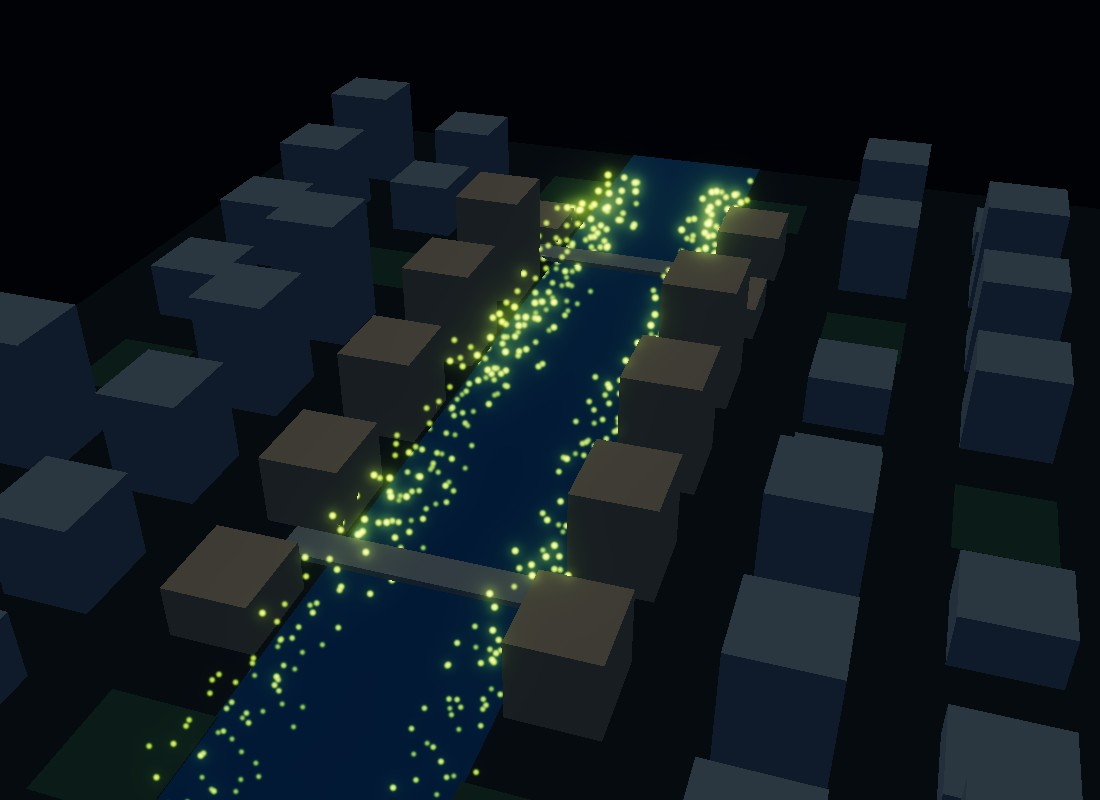
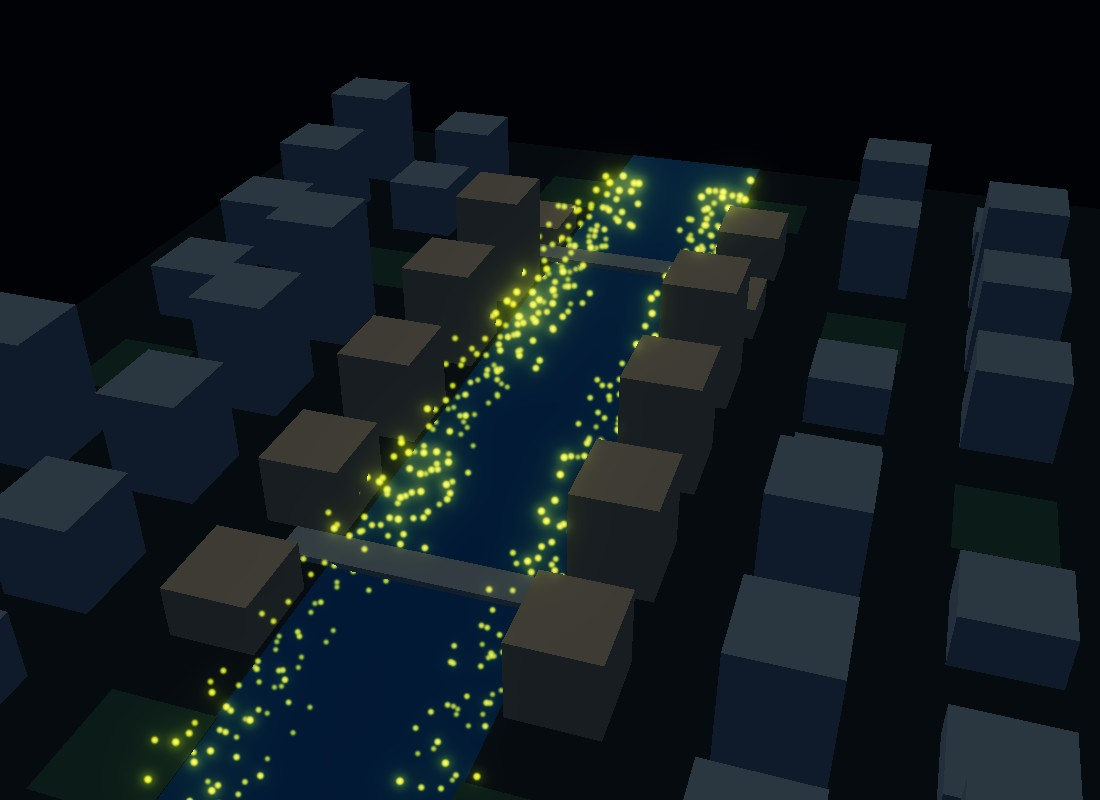
fix: test motion offscreen and warm firefly bioluminescence

diff --git a/modules/deck-gpu-layers/test/scene-buffer-motion.spec.ts b/modules/deck-gpu-layers/test/scene-buffer-motion.spec.ts
@@ -18,16 +18,14 @@ test('motion capture reprojects the camera without full history and resets on cu
   parent.style.width = '64px';
   parent.style.height = '64px';
   document.body.append(parent);
-  // This spec has its own browser page. Borrow the established test device instead of opening
-  // another native adapter/device pair, which can lose its Dawn instance on software runners.
-  const canvas = device.getCanvasContext().canvas;
-  const previousParent = canvas instanceof HTMLCanvasElement ? canvas.parentElement : null;
-  const previousStyle = canvas instanceof HTMLCanvasElement ? canvas.style.cssText : '';
-  if (canvas instanceof HTMLCanvasElement) {
-    parent.append(canvas);
-    canvas.style.width = '64px';
-    canvas.style.height = '64px';
-  }
+  // Capture is independent of canvas presentation. A real offscreen target keeps software
+  // WebGPU runners from requesting an unsupported compositor swapchain during Deck's draw.
+  const framebuffer = device.createFramebuffer({
+    width: 64,
+    height: 64,
+    colorAttachments: ['rgba8unorm'],
+    depthStencilAttachment: 'depth24plus'
+  });
   let time = 2;
   const effect = new SceneBufferEffect({
     motionVectors: true,
@@ -41,6 +39,7 @@ test('motion capture reprojects the camera without full history and resets on cu
     width: 64,
     height: 64,
     useDevicePixels: false,
+    _framebuffer: framebuffer,
     views: new OrthographicView({id: 'main'}),
     initialViewState: {target: [0, 0], zoom: 0},
     layers: [new CaptureTestLayer({id: 'motion-surface'})],
@@ -82,6 +81,7 @@ test('motion capture reprojects the camera without full history and resets on cu
     const reset = await readCapture(device, effect, 'main', [32, 32], true);
     expect(reset[0]).toBeCloseTo(0, 5);
     const velocityTexture = effect.getFrame('main')!.buffer.velocityTexture;
+    framebuffer.resize({width: 80, height: 48});
     deck.setProps({width: 80, height: 48});
     await waitUntil(
       () => effect.getFrame('main')?.buffer.width === 80,
@@ -97,10 +97,7 @@ test('motion capture reprojects the camera without full history and resets on cu
     expect(errors).toEqual([]);
   } finally {
     deck.finalize();
-    if (canvas instanceof HTMLCanvasElement) {
-      canvas.style.cssText = previousStyle;
-      previousParent?.append(canvas);
-    }
+    framebuffer.destroy();
     parent.remove();
   }
 });

diff --git a/examples/deck/riverfront-lighting-scene.ts b/examples/deck/riverfront-lighting-scene.ts
@@ -208,9 +208,10 @@ export function createRiverfrontLightingScene(
             longitudeOffset,
             latitudeOffset,
             8 + ((index * 17) % 28),
-            0.7,
+            // Warm yellow-green approximation of Photinus pyralis bioluminescence.
+            0.85,
             1,
-            0.12,
+            0.025,
             1,
             index
           );

diff --git a/examples/deck/fireflies/README.md b/examples/deck/fireflies/README.md
@@ -1,6 +1,6 @@
 # Riverfront fireflies
 
-GPU wandering and independent bioluminescence over calm, reflective river water. Multiscale bloom has an independent strength control; optional ripples start at zero.
+GPU wandering and independent bioluminescence over calm, reflective river water. Emitters and their reflections share a warm yellow-green RGB approximation of *Photinus pyralis* flashes (reported peak emission around 558–568 nm: https://doi.org/10.1186/s12862-018-1251-9). This is a display approximation, not a spectral simulation. Multiscale bloom has an independent strength control; optional ripples start at zero.
 
 Run `yarn workspace luma.gl-examples-deck-fireflies start`. The website route is `/examples/deck/fireflies`.
 
